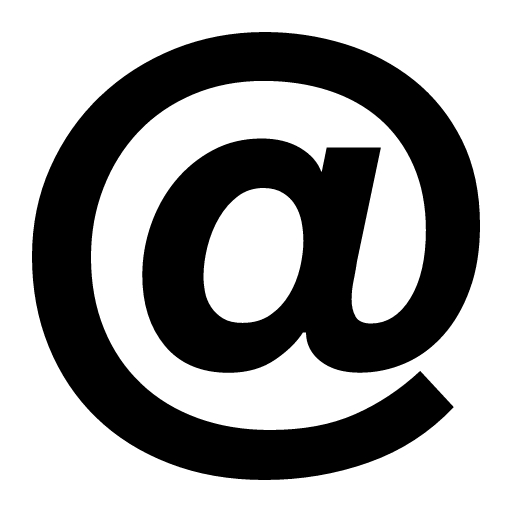
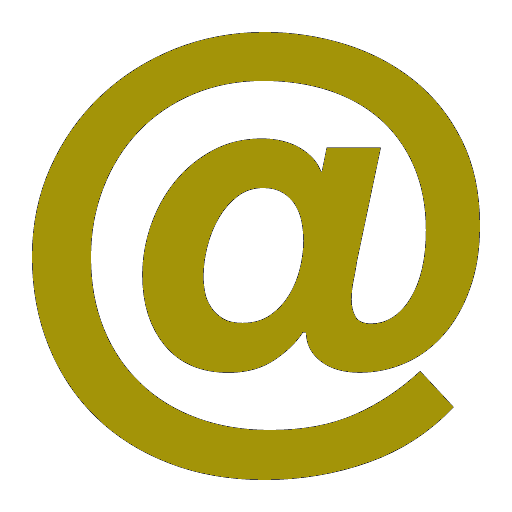
Ikonok + Információk kész

diff --git a/MoziMusor/Views/InfoPage.xaml b/MoziMusor/Views/InfoPage.xaml
@@ -11,9 +11,10 @@
         <ScrollViewer>
             <StackPanel Orientation="Vertical">
                 <TextBlock Text="MOZI INFORMÁCIÓ" FontSize="16" FontWeight="Bold" HorizontalAlignment="Center" Margin="10"/>
-                <TextBlock Text="A Malom Mozi Kecskemét város szívében, a Malom Bevásárló Központ 3. emeletén található. A filmszínház 2008 óta a legjobb filmekkel és rendezvényekkel vár minden egyes látogatót segítőkész és kedves alkalmazottaival. A széles filmkínálatnak, az udvarias kiszolgálásnak, a kedvező áraknak és a magas technikai háttérnek  köszönhetően a mozi mind Kecskemét mind pedig a vidék egyik legkeresettebb és legközkedveltebb mozijává nőtte ki magát. Így ha valaki igazán jól akar szórakozni a Malom Mozi a legjobb hely rá!" TextWrapping="Wrap" HorizontalAlignment="Stretch" Margin="10" TextAlignment="Justify"/>
+                <TextBlock Text="A Malom Mozi Kecskemét város szívében, a Malom Bevásárló Központ 3. emeletén található. A filmszínház 2008 óta a legjobb filmekkel és rendezvényekkel vár minden egyes látogatót segítőkész és kedves alkalmazottaival. A széles filmkínálatnak, az udvarias kiszolgálásnak, a kedvező áraknak és a magas technikai háttérnek  köszönhetően a mozi mind Kecskemét mind pedig a vidék egyik legkeresettebb és legközkedveltebb mozijává nőtte ki magát. Így ha valaki igazán jól akar szórakozni a Malom Mozi a legjobb hely rá!" TextWrapping="Wrap" HorizontalAlignment="Stretch" Margin="30,10" TextAlignment="Justify"/>
                 <TextBlock Text="TEREM VÁLASZTÉK" FontSize="16" FontWeight="Bold" HorizontalAlignment="Center" Margin="10"/>
-                <Grid BorderBrush="#FFA49608" BorderThickness="2" Margin="10">
+                
+                <Grid x:Name="TermekGrid" BorderBrush="#FFA49608" BorderThickness="2" Margin="30,10">
                     <Grid.RowDefinitions>
                         <RowDefinition/>
                         <RowDefinition/>
@@ -57,6 +58,57 @@
                     </Border>
                     
                 </Grid>
+                <TextBlock Text="Nagyobb csoportokat is be tudunk fogadni." HorizontalAlignment="Center" />
+                <TextBlock Text="Terem bérlésről információ: +3676900120"  HorizontalAlignment="Center"/>
+
+                <TextBlock Text="ELÉRHETŐSÉG" FontSize="16" FontWeight="Bold" HorizontalAlignment="Center" Margin="10"/>
+                
+                <Grid x:Name="ElerhetosegGrid"  Margin="30,10">
+                    <Grid.RowDefinitions>
+                        <RowDefinition/>
+                        <RowDefinition/>
+                        <RowDefinition/>
+                        <RowDefinition/>
+                        <RowDefinition/>
+                    </Grid.RowDefinitions>
+                    <Grid.ColumnDefinitions>
+                        <ColumnDefinition Width="60"/>
+                        <ColumnDefinition/>
+                    </Grid.ColumnDefinitions>
+                    <Image Grid.Row="0" Grid.Column="0"  Source="ms-appx:///Images/phone.png" Width="50" Height="50"/>
+                    <Image Grid.Row="1" Grid.Column="0"  Source="ms-appx:///Images/at.png" Width="50" Height="50"/>
+                    <Image Grid.Row="2" Grid.Column="0"  Source="ms-appx:///Images/earth.png" Width="50" Height="50" />
+                    <Image Grid.Row="3" Grid.Column="0"  Source="ms-appx:///Images/social-facebook.png" Width="50" Height="50"/>
+                    <Image Grid.Row="4" Grid.Column="0"  Source="ms-appx:///Images/social-skype.png" Width="50" Height="50"/>
+                    <TextBlock Grid.Row="0" Grid.Column="1" Text="+3676900120 (H-P 12-20 óra, Szo-V 10-20 óra között hívható)"
+                               TextWrapping="Wrap"  VerticalAlignment="Center" Margin="10,0,0,0"/>
+                    <TextBlock Grid.Row="1" Grid.Column="1" Text="kecskemet@malommozi.hu
+                               callcenter@malommozi.hu" TextWrapping="Wrap" VerticalAlignment="Center" Margin="10,0,0,0"/>
+                    <TextBlock Grid.Row="2" Grid.Column="1" Text="http://www.malommozi.hu/" VerticalAlignment="Center" Margin="10,0,0,0"/>
+                    <TextBlock Grid.Row="3" Grid.Column="1" Text="facebook.com/malommozi" VerticalAlignment="Center" Margin="10,0,0,0"/>
+                    <TextBlock Grid.Row="4" Grid.Column="1" Text="malom.mozi" VerticalAlignment="Center" Margin="10,0,0,0"/>
+                </Grid>
+
+                <Grid x:Name="NyitvatartasGrid" Margin="30,10">
+                    <Grid.RowDefinitions>
+                        <RowDefinition/>
+                        <RowDefinition/>
+                        <RowDefinition/>
+                    </Grid.RowDefinitions>
+                    <Grid.ColumnDefinitions>
+                        <ColumnDefinition Width="100"/>
+                        <ColumnDefinition/>
+                    </Grid.ColumnDefinitions>
+                    
+                    <TextBlock Grid.Row="0" Grid.ColumnSpan="2" Text="NYITVATARTÁS" FontSize="16" FontWeight="Bold" HorizontalAlignment="Center" Margin="10"/>
+
+                    <TextBlock Grid.Row="1" Grid.Column="0" Text="Pénztár nyitás" FontWeight="SemiBold"/>
+                    <TextBlock Grid.Row="2" Grid.Column="0" Text="Pénztár zárás" FontWeight="SemiBold"/>
+                    <TextBlock Grid.Row="1" Grid.Column="1" Text="első előadás előtt fél órával" HorizontalAlignment="Center"/>
+                    <TextBlock Grid.Row="2" Grid.Column="1" Text="utolsó előadás után negyed órával" HorizontalAlignment="Center"/>
+                </Grid>
+                
+
             </StackPanel>
         </ScrollViewer>
     </Grid>
